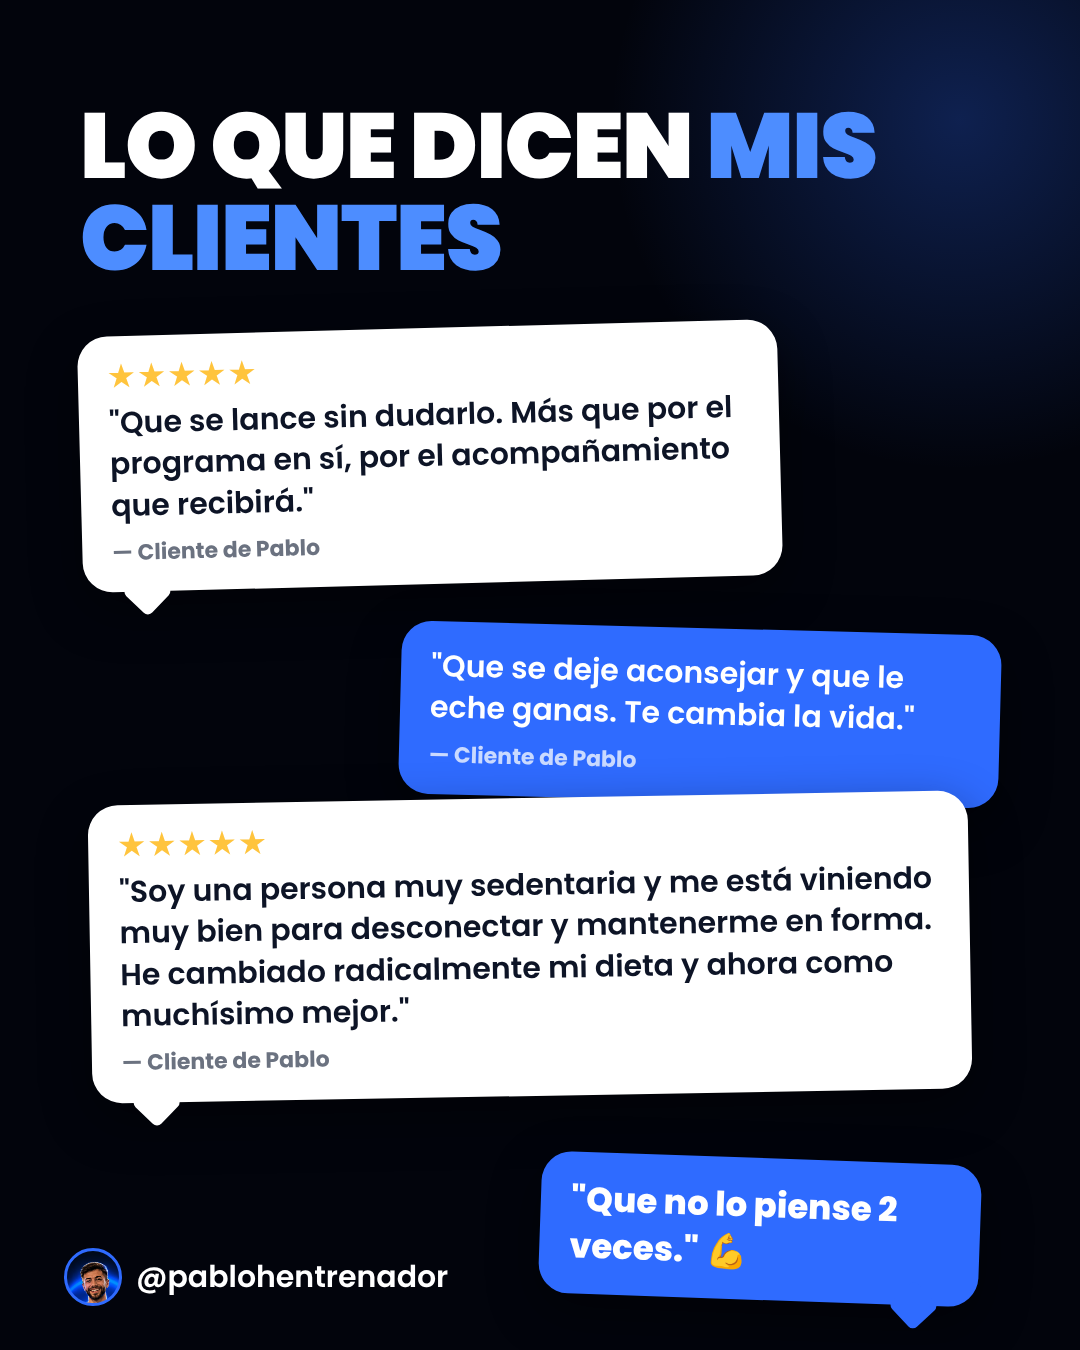
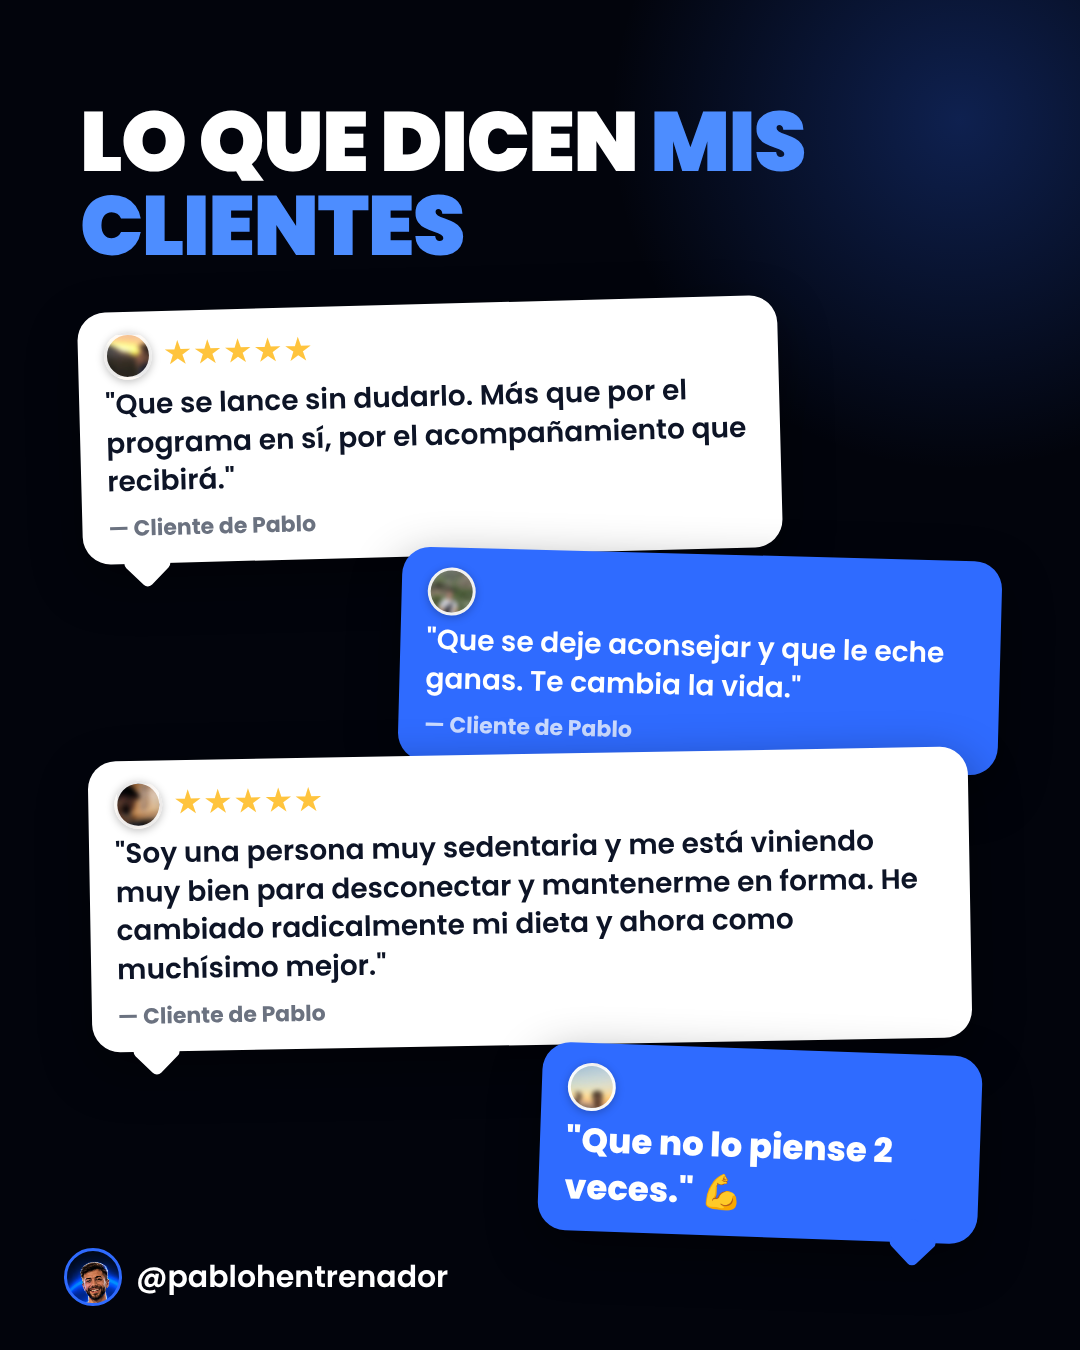
Carrusel 'Así trabajo': textos en tú, sin repeticiones y nombre del programa
Claude-Session: https://claude.ai/code/session_015PfrwJnF2wsp656kSpm277

Changed region(s): [[0.0611, 0.0622, 0.9472, 0.9956]]

diff --git a/carrusel-pablo/como-trabajo/carrusel.html b/carrusel-pablo/como-trabajo/carrusel.html
@@ -36,7 +36,7 @@ h2{font-size:104px}
 .step.hl{background:rgba(47,107,255,.18);border-color:var(--blue2)}
 /* testimonials */
 .quotes{margin-top:44px;position:relative;height:880px}
-.q{position:absolute;background:#fff;color:#0d1426;border-radius:30px;padding:24px 30px;font-size:30px;line-height:1.38;font-weight:600;box-shadow:0 18px 50px rgba(0,0,0,.45)}
+.q{position:absolute;background:#fff;color:#0d1426;border-radius:28px;padding:20px 26px;font-size:28px;line-height:1.38;font-weight:600;box-shadow:0 18px 50px rgba(0,0,0,.45)}
 .q:after{content:"";position:absolute;bottom:-18px;width:36px;height:36px;background:inherit;transform:rotate(45deg);border-radius:6px}
 .q.l:after{left:46px}.q.rr:after{right:46px}
 .q .who{display:block;font-size:22px;font-weight:700;color:#6b7280;margin-top:12px}
@@ -50,6 +50,7 @@ h2{font-size:104px}
 .brandname{margin-top:70px;font-weight:800;font-size:34px;letter-spacing:1px;color:var(--muted)}
 .brandname span{color:#fff}
 .team{color:#FFC43D;font-weight:800}
+.q .head{display:flex;align-items:center;gap:12px;margin-bottom:6px}.q .pic{width:48px;height:48px;border-radius:50%;background-size:cover;flex:0 0 48px;border:3px solid rgba(255,255,255,.9);box-shadow:0 2px 8px rgba(0,0,0,.25)}.q .head .stars{margin:0}
 </style></head><body>
 
 <!-- 1 PORTADA -->
@@ -77,11 +78,11 @@ h2{font-size:104px}
 <!-- 3 SI ES -->
 <section class="slide si"><div class="inner">
   <h2>Esto <span class="b">sí</span> es</h2>
-  <p class="lead">Un programa para hombres con trabajo y poco tiempo que quieren:</p>
+  <p class="lead">Para hombres con trabajo y poco tiempo que quieren:</p>
   <div class="list" style="margin-top:40px">
-    <div class="li"><div class="ic">✓</div>Quitarse la camiseta en la playa sin vergüenza</div>
-    <div class="li"><div class="ic">✓</div>Que la ropa les quede bien</div>
-    <div class="li"><div class="ic">✓</div>Gustarse al mirarse al espejo</div>
+    <div class="li"><div class="ic">✓</div>Quitarte la camiseta en la playa sin vergüenza</div>
+    <div class="li"><div class="ic">✓</div>Que la ropa te quede bien</div>
+    <div class="li"><div class="ic">✓</div>Gustarte al mirarte al espejo</div>
     <div class="li"><div class="ic">✓</div>Llegar con energía a casa y al finde</div>
   </div>
 </div>
@@ -107,21 +108,20 @@ h2{font-size:104px}
   <div class="list">
     <div class="li"><div class="ic">✕</div>Pasar hambre</div>
     <div class="li"><div class="ic">✕</div>Dejar de salir con tus amigos</div>
-    <div class="li"><div class="ic">✕</div>Entrenar 2 horas al día</div>
-    <div class="li"><div class="ic">✕</div>Comer lo que no te gusta</div>
-    <div class="li"><div class="ic">✕</div>Gastarte un dineral en suplementos</div>
+    <div class="li"><div class="ic">✕</div>Pesarte cada día si te agobia</div>
+    <div class="li"><div class="ic">✕</div>Cocinar recetas complicadas</div>
   </div>
 </div>
 <div class="foot"><div class="handle"><div class="av"></div>@pablohentrenador</div></div></section>
 
 <!-- 6 TESTIMONIOS -->
 <section class="slide"><div class="inner" style="top:100px">
-  <h2 style="font-size:92px">Lo que dicen <span class="b">mis clientes</span></h2>
-  <div class="quotes">
-    <div class="q l" style="left:0;top:0;width:700px;transform:rotate(-1.5deg)"><div class="stars">★★★★★</div>"Que se lance sin dudarlo. Más que por el programa en sí, por el acompañamiento que recibirá."<span class="who">— Cliente de Pablo</span></div>
-    <div class="q rr blue" style="right:0;top:300px;width:600px;transform:rotate(1.5deg)">"Que se deje aconsejar y que le eche ganas. Te cambia la vida."<span class="who">— Cliente de Pablo</span></div>
-    <div class="q l" style="left:10px;top:470px;width:880px;transform:rotate(-1deg)"><div class="stars">★★★★★</div>"Soy una persona muy sedentaria y me está viniendo muy bien para desconectar y mantenerme en forma. He cambiado radicalmente mi dieta y ahora como muchísimo mejor."<span class="who">— Cliente de Pablo</span></div>
-    <div class="q rr blue" style="right:20px;top:830px;width:440px;transform:rotate(2deg);font-size:34px;font-weight:800">"Que no lo piense 2 veces." 💪</div>
+  <h2 style="font-size:84px">Lo que dicen <span class="b">mis clientes</span></h2>
+  <div class="quotes" style="margin-top:36px">
+    <div class="q l" style="left:0;top:0;width:700px;transform:rotate(-1.5deg)"><div class="head"><div class="pic" style="background-image:url(av1.jpg)"></div><div class="stars">★★★★★</div></div>"Que se lance sin dudarlo. Más que por el programa en sí, por el acompañamiento que recibirá."<span class="who">— Cliente de Pablo</span></div>
+    <div class="q rr blue" style="right:0;top:250px;width:600px;transform:rotate(1.5deg)"><div class="head"><div class="pic" style="background-image:url(av2.jpg)"></div></div>"Que se deje aconsejar y que le eche ganas. Te cambia la vida."<span class="who">— Cliente de Pablo</span></div>
+    <div class="q l" style="left:10px;top:450px;width:880px;transform:rotate(-1deg)"><div class="head"><div class="pic" style="background-image:url(av3.jpg)"></div><div class="stars">★★★★★</div></div>"Soy una persona muy sedentaria y me está viniendo muy bien para desconectar y mantenerme en forma. He cambiado radicalmente mi dieta y ahora como muchísimo mejor."<span class="who">— Cliente de Pablo</span></div>
+    <div class="q rr blue" style="right:20px;top:745px;width:440px;transform:rotate(2deg);font-size:34px;font-weight:800"><div class="head"><div class="pic" style="background-image:url(av4.jpg)"></div></div>"Que no lo piense 2 veces." 💪</div>
   </div>
 </div>
 <div class="foot"><div class="handle"><div class="av"></div>@pablohentrenador</div></div></section>
@@ -131,7 +131,7 @@ h2{font-size:104px}
   <h2>¿Quieres ser<br><span class="b">el siguiente?</span></h2>
   <p class="lead">Escríbeme y hacemos una <b style="color:#fff">videollamada gratuita</b> para ver tu caso.</p>
   <div class="btn">Escríbeme "CAMBIO" 💬</div>
-  <p class="brandname"><span>UN INTENTO MÁS</span> · Pierde la barriga y ponte fuerte sin dejar tu vida social</p>
+  <p class="brandname">Programa <span>UN INTENTO MÁS</span> · Pierde la barriga y ponte fuerte sin dejar tu vida social</p>
 </div>
 <div class="foot"><div class="handle"><div class="av"></div>@pablohentrenador</div></div></section>
 </body></html>
